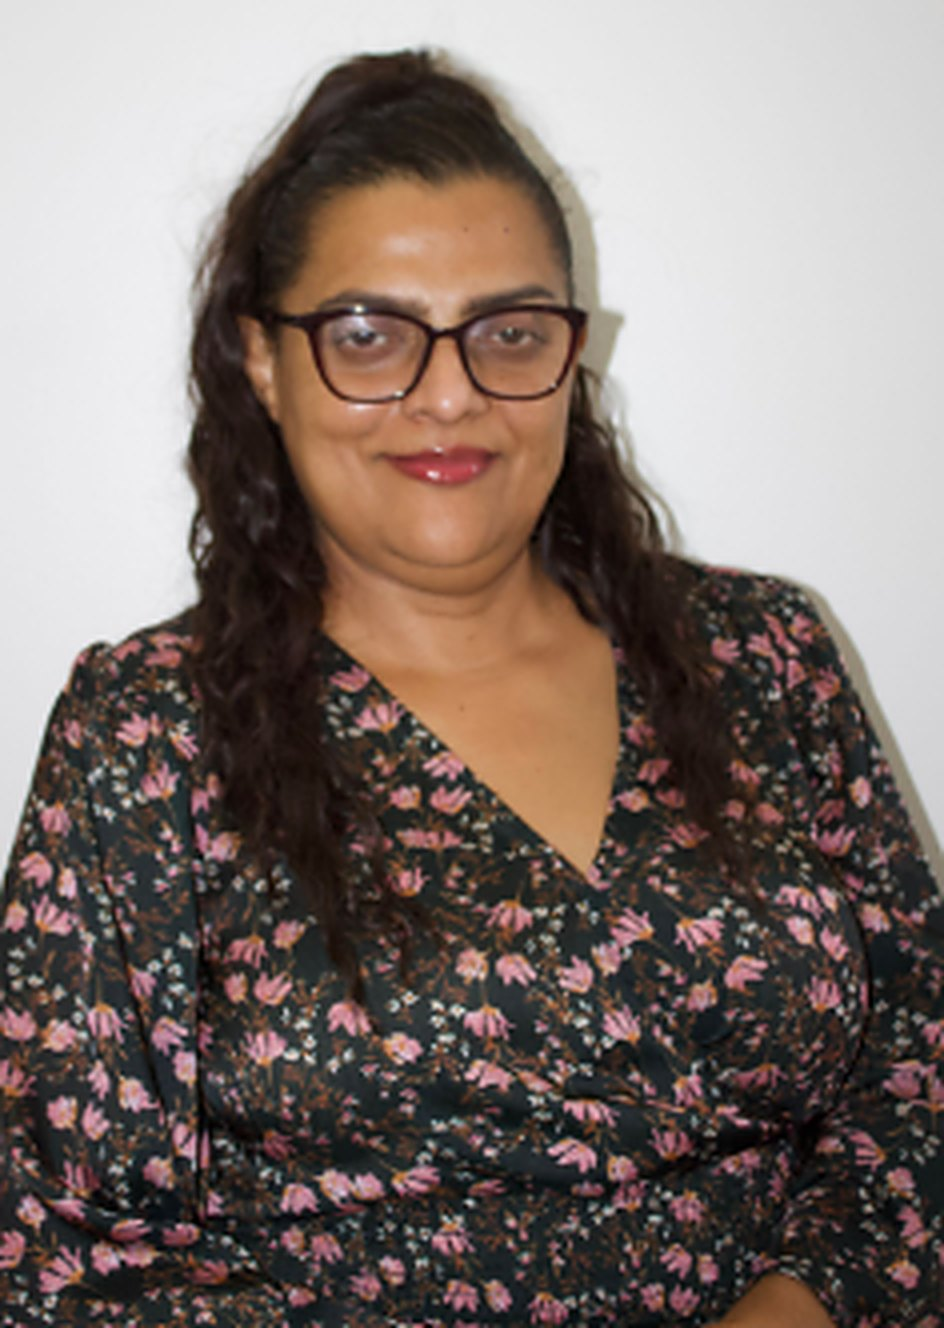
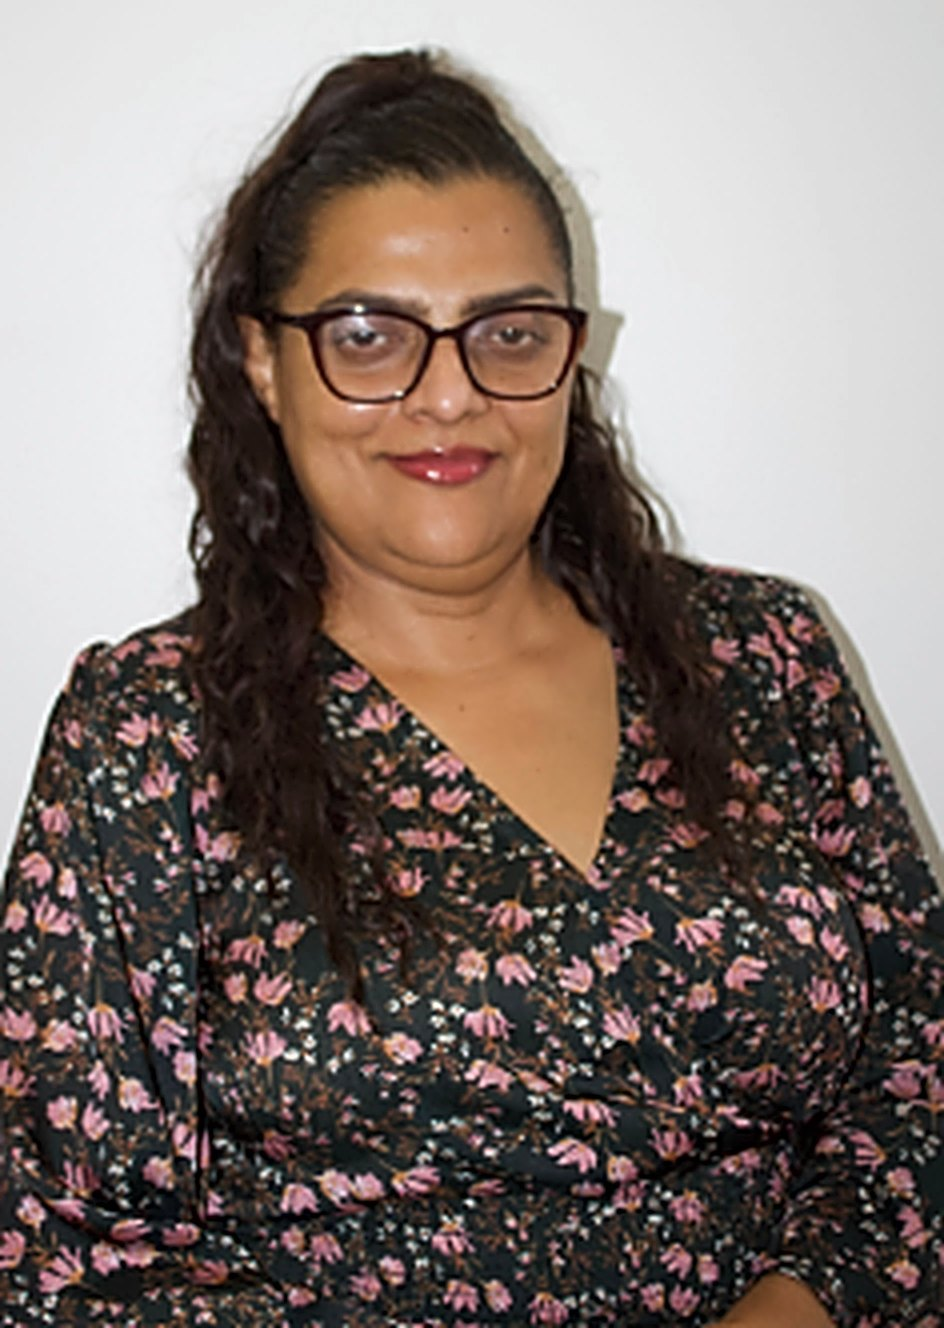
sharpen the headshot for the size it is actually displayed at
The 944x1328 asset was resampled but only lightly sharpened, so at the 320 px the
About page renders it (144 px in the footer) it still read like the 236 px
original - upscaling adds pixels, not detail, and the source photo is soft.
Sharpening the luminance channel at display scale lifts edge energy about 60%
at 1x without colour fringing. The image url now carries the same version tag as
the stylesheet and script so the new bytes are not read from a cached url.

🤖 Generated with Codebuff

diff --git a/about/index.html b/about/index.html
@@ -34,7 +34,7 @@
           <h2>About Us</h2>
           <div class="about-story">
             <img
-              src="/assets/img/loren.jpg"
+              src="/assets/img/loren.jpg?v=2026-10-27b"
               alt="Loren James, CEO of Anuva Cleaning Corporation"
               loading="lazy"
             />
@@ -84,6 +84,6 @@
       </section>
     </main>
     <div id="site-footer"></div>
-    <script src="/js/main.js?v=2026-10-27"></script>
+    <script src="/js/main.js?v=2026-10-27b"></script>
   </body>
 </html>

diff --git a/contact/index.html b/contact/index.html
@@ -116,7 +116,7 @@
       </section>
     </main>
     <div id="site-footer"></div>
-    <script src="/js/main.js?v=2026-10-27"></script>
+    <script src="/js/main.js?v=2026-10-27b"></script>
     <script>
       document.getElementById('contactForm')?.addEventListener('submit', async function (event) {
         event.preventDefault();

diff --git a/js/main.js b/js/main.js
@@ -98,7 +98,7 @@ if (headerHost) {
 
 const footerHost = document.getElementById('site-footer');
 if (footerHost) {
-  fetch('/footer.html?v=2026-10-27')
+  fetch('/footer.html?v=2026-10-27b')
     .then((response) => response.text())
     .then((html) => {
       footerHost.innerHTML = html;

diff --git a/construction/index.html b/construction/index.html
@@ -93,6 +93,6 @@ Focused attention on high-traffic, high-impact zones — entryways, lobbies, and
       </section>
     </main>
     <div id="site-footer"></div>
-    <script src="/js/main.js?v=2026-10-27"></script>
+    <script src="/js/main.js?v=2026-10-27b"></script>
   </body>
 </html>

diff --git a/footer.html b/footer.html
@@ -3,7 +3,7 @@
     <div class="footer-contact">
       <img
         class="footer-ceo__photo"
-        src="/assets/img/loren.jpg"
+        src="/assets/img/loren.jpg?v=2026-10-27b"
         alt="Loren James"
         loading="lazy"
       />

diff --git a/government-contracting/index.html b/government-contracting/index.html
@@ -125,6 +125,6 @@
       </section>
     </main>
     <div id="site-footer"></div>
-    <script src="/js/main.js?v=2026-10-27"></script>
+    <script src="/js/main.js?v=2026-10-27b"></script>
   </body>
 </html>

diff --git a/projects/index.html b/projects/index.html
@@ -175,6 +175,6 @@
       </section>
     </main>
     <div id="site-footer"></div>
-    <script src="/js/main.js?v=2026-10-27"></script>
+    <script src="/js/main.js?v=2026-10-27b"></script>
   </body>
 </html>

diff --git a/education/index.html b/education/index.html
@@ -49,6 +49,6 @@
       </section>
     </main>
     <div id="site-footer"></div>
-    <script src="/js/main.js?v=2026-10-27"></script>
+    <script src="/js/main.js?v=2026-10-27b"></script>
   </body>
 </html>

diff --git a/events/index.html b/events/index.html
@@ -71,6 +71,6 @@
       </section>
     </main>
     <div id="site-footer"></div>
-    <script src="/js/main.js?v=2026-10-27"></script>
+    <script src="/js/main.js?v=2026-10-27b"></script>
   </body>
 </html>

diff --git a/healthcare/index.html b/healthcare/index.html
@@ -52,6 +52,6 @@
       </section>
     </main>
     <div id="site-footer"></div>
-    <script src="/js/main.js?v=2026-10-27"></script>
+    <script src="/js/main.js?v=2026-10-27b"></script>
   </body>
 </html>

diff --git a/industries/index.html b/industries/index.html
@@ -93,6 +93,6 @@
       </section>
     </main>
     <div id="site-footer"></div>
-    <script src="/js/main.js?v=2026-10-27"></script>
+    <script src="/js/main.js?v=2026-10-27b"></script>
   </body>
 </html>

diff --git a/services/index.html b/services/index.html
@@ -98,6 +98,6 @@
       </section>
     </main>
     <div id="site-footer"></div>
-    <script src="/js/main.js?v=2026-10-27"></script>
+    <script src="/js/main.js?v=2026-10-27b"></script>
   </body>
 </html>
